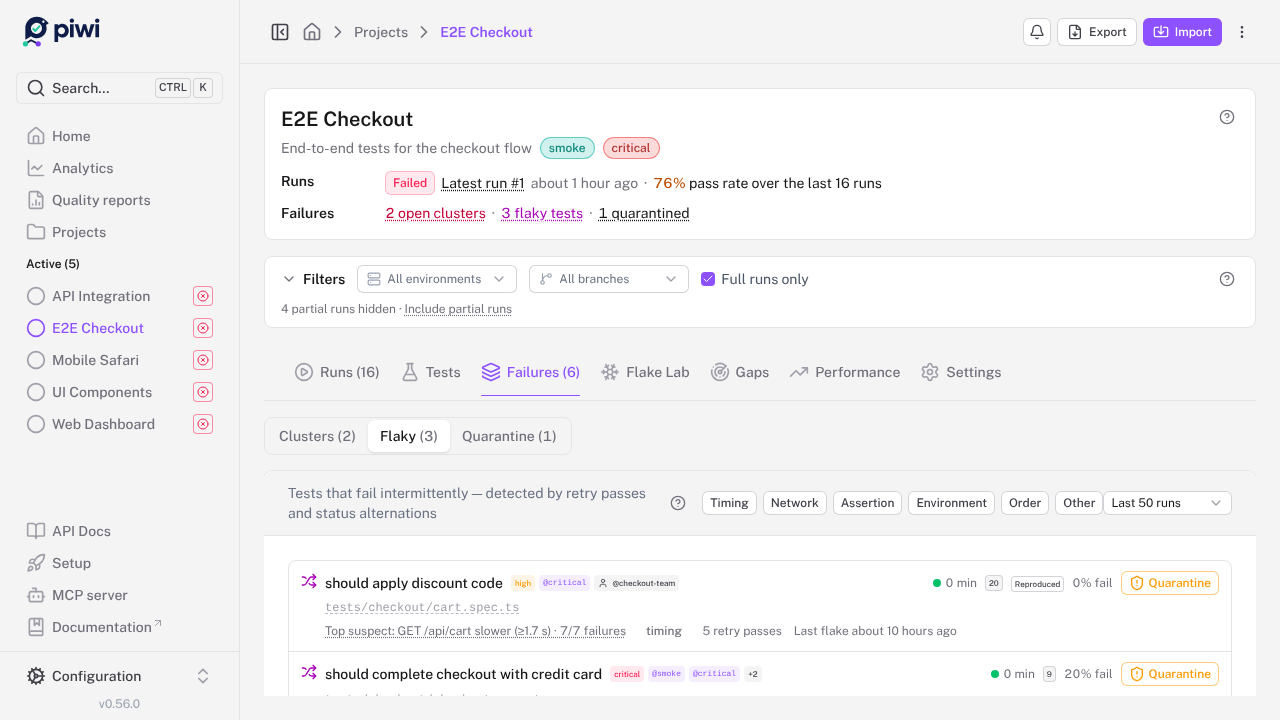
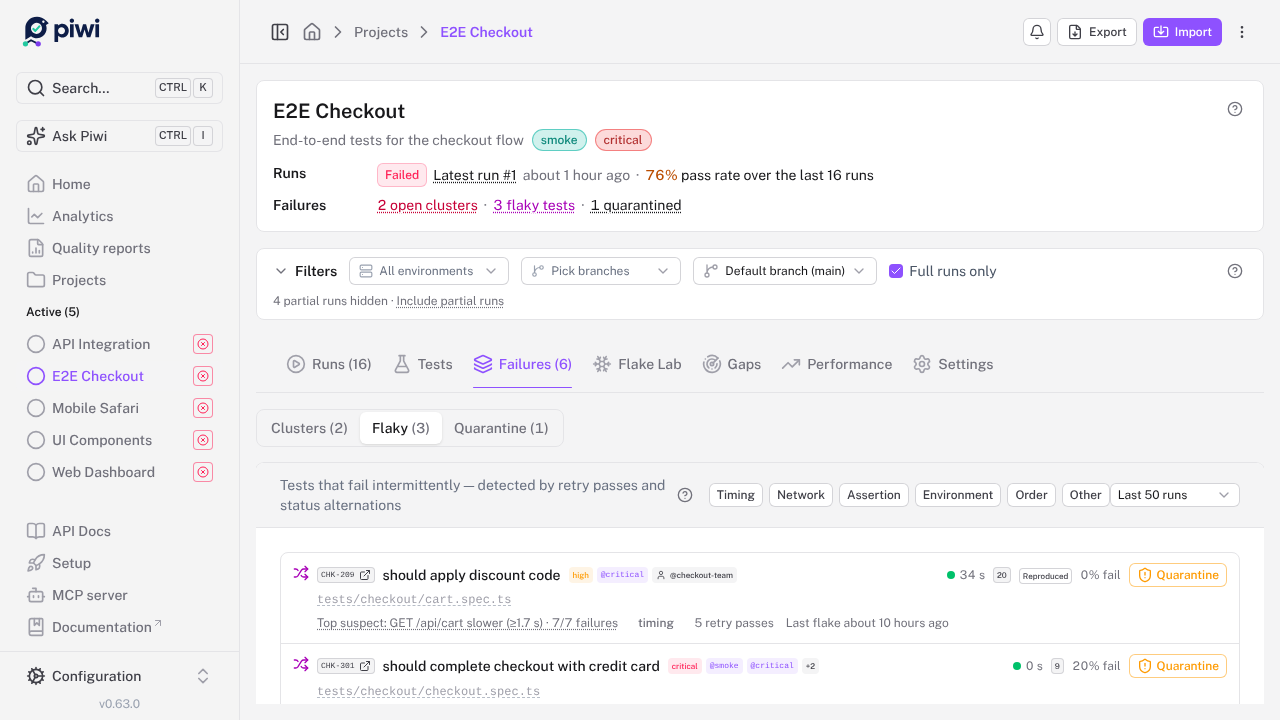
fix(demo): make a flaky test's failed attempt wait out its timeout, and show seconds of waste
The demo seed gave a flaky test's failed first attempt half the passing
attempt's time, about 2 s, while its error says it waited out a 5000 ms
assertion timeout; the wasted CI time computed from those attempts rounded to
0 min on every row of the Flaky view. The failed attempt now runs its steps up
to the failing assertion, which lasts the timeout its error names.

The Flaky view and the analytics flaky leaderboard round wasted time to whole
minutes, so any cost under 30 s read 0 min; they now show it in seconds below a
minute. The docs' flaky screenshots and the guide stop are recaptured.

Claude-Session: https://claude.ai/code/session_01ADXAbfz2ykLrXxw55KaDRq

diff --git a/apps/application/app/components/project/FlakyTestsList.vue b/apps/application/app/components/project/FlakyTestsList.vue
@@ -246,11 +246,11 @@ function flakyBadges(test: FlakyTest) {
         <template #metrics>
           <span
             class="inline-flex items-center gap-1 tabular-nums"
-            :title="`${Math.round(test.wastedCiMinutes)} CI minutes wasted`"
+            :title="`${formatWastedMinutes(test.wastedCiMinutes)} of CI time wasted`"
             data-tour-part="wasted"
           >
             <span class="inline-block size-2 rounded-full shrink-0" :class="impactDotClass(test.wastedCiMinutes)" />
-            {{ Math.round(test.wastedCiMinutes) }} min
+            {{ formatWastedMinutes(test.wastedCiMinutes) }}
           </span>
           <UBadge :color="scoreColor(test.score)" variant="subtle" size="xs" title="Flaky score" data-tour-part="score">
             {{ test.score }}

diff --git a/apps/application/app/utils/index.ts b/apps/application/app/utils/index.ts
@@ -169,6 +169,11 @@ export function formatRelativeTime(date: string | Date | number | null | undefin
   return formatDistanceToNow(new Date(date), { addSuffix: true, locale: activeLocalePrefs().dateFnsLocale });
 }
 
+/** CI time a flaky test wasted, in minutes: seconds under a minute, so a small cost never reads as zero. */
+export function formatWastedMinutes(minutes: number): string {
+  return minutes < 1 ? `${Math.round(minutes * 60)} s` : `${Math.round(minutes)} min`;
+}
+
 export function formatDuration(ms?: number | null) {
   if (ms === null || ms === undefined) return 'N/A';
   // Round to whole milliseconds so fractional inputs (SQL averages) never

diff --git a/apps/application/app/components/analytics/GlobalFlakyLeaderboard.vue b/apps/application/app/components/analytics/GlobalFlakyLeaderboard.vue
@@ -69,7 +69,7 @@ function flakeSummary(row: AnalyticsFlakyRow): string {
                   : 'text-gray-500'
             "
           >
-            {{ Math.round(row.wastedCiMinutes) }} min
+            {{ formatWastedMinutes(row.wastedCiMinutes) }}
           </p>
           <TagBadge v-if="row.rootCause" :text="row.rootCause" color="neutral" />
         </div>

diff --git a/proposals/docs-illustrations-review.md b/proposals/docs-illustrations-review.md
@@ -4,8 +4,8 @@ A review of every page of the documentation site (`apps/docs/`), focused on the 
 
 **Status.** Proposed 2026-10-27, against `main` at commit `7fc8c44e`; partly built since. Each batch of §3 can ship alone, in any order; a pull request that builds part of it updates this paragraph.
 
-- **Built.** Batch 1 whole: click-to-zoom (`theme/image-zoom.ts`, no dependency), image markup out of the word budget, one `<figure>` markup, dark themes and larger text on every diagram, and drift checks for an unused screenshot and a missing `## Related`. Batch 2: the images with no page placed or deleted with their scene, 25 existing scenes published, the broken test case and dark evidence captures replaced, and *Try it in the demo* on seven more pages. Batch 3: `init`, the reporter's *Not enabled* line, the gate, a metrics scrape and a coverage upload quoted from their code (`docs-checkpoints.test.ts`), the pull-request comment and the heal pull request rendered by their builders. Batch 4: the moving parts, the data model grid, the baseline ladder, the worked flakiness score and the production topology. All of §5 that held up against the code, and the `diff-rename` label of §6.
-- **Remaining.** The demo seed's flaky tests still waste under a minute each, so `flaky-tests.png` and `flaky-detection.png` read *0 min*. The issue tracking and integrations screenshots still show an unconfigured Jira; `vscode-hover.png` still lacks the failure screenshot, which a VS Code hover cannot show beside the error at once; the JetBrains screenshots keep the trial badge. The `probe` and `run impact` outputs, the fix plan, Jira and email renderings, the annotated screenshots, Batch 4 from the editors on, and the loop videos of Batch 5 are not built.
+- **Built.** Batch 1 whole: click-to-zoom (`theme/image-zoom.ts`, no dependency), image markup out of the word budget, one `<figure>` markup, dark themes and larger text on every diagram, and drift checks for an unused screenshot and a missing `## Related`. Batch 2: the images with no page placed or deleted with their scene, 25 existing scenes published, the broken test case and dark evidence captures replaced, and *Try it in the demo* on seven more pages. Batch 3: `init`, the reporter's *Not enabled* line, the gate, a metrics scrape and a coverage upload quoted from their code (`docs-checkpoints.test.ts`), the pull-request comment and the heal pull request rendered by their builders. Batch 4: the moving parts, the data model grid, the baseline ladder, the worked flakiness score and the production topology. All of §5 that held up against the code, and the `diff-rename` label of §6. The demo seed's failed flaky attempts wait out the timeout their error names, and the flaky lists show a cost under a minute in seconds rather than *0 min*.
+- **Remaining.** The issue tracking and integrations screenshots still show an unconfigured Jira; `vscode-hover.png` still lacks the failure screenshot, which a VS Code hover cannot show beside the error at once; the JetBrains screenshots keep the trial badge. The `probe` and `run impact` outputs, the fix plan, Jira and email renderings, the annotated screenshots, Batch 4 from the editors on, and the loop videos of Batch 5 are not built.
 
 **Scope**: the 115 hand-written pages of `apps/docs/`, plus the 7 generated pages (regenerated locally for the review), 80 screenshots and 12 diagrams.
 **Method**: 7 parallel reviews (one per group of pages), then a check of the most important points: the real rendering of the built site, measurements of each image's display scale, and reading the code.
